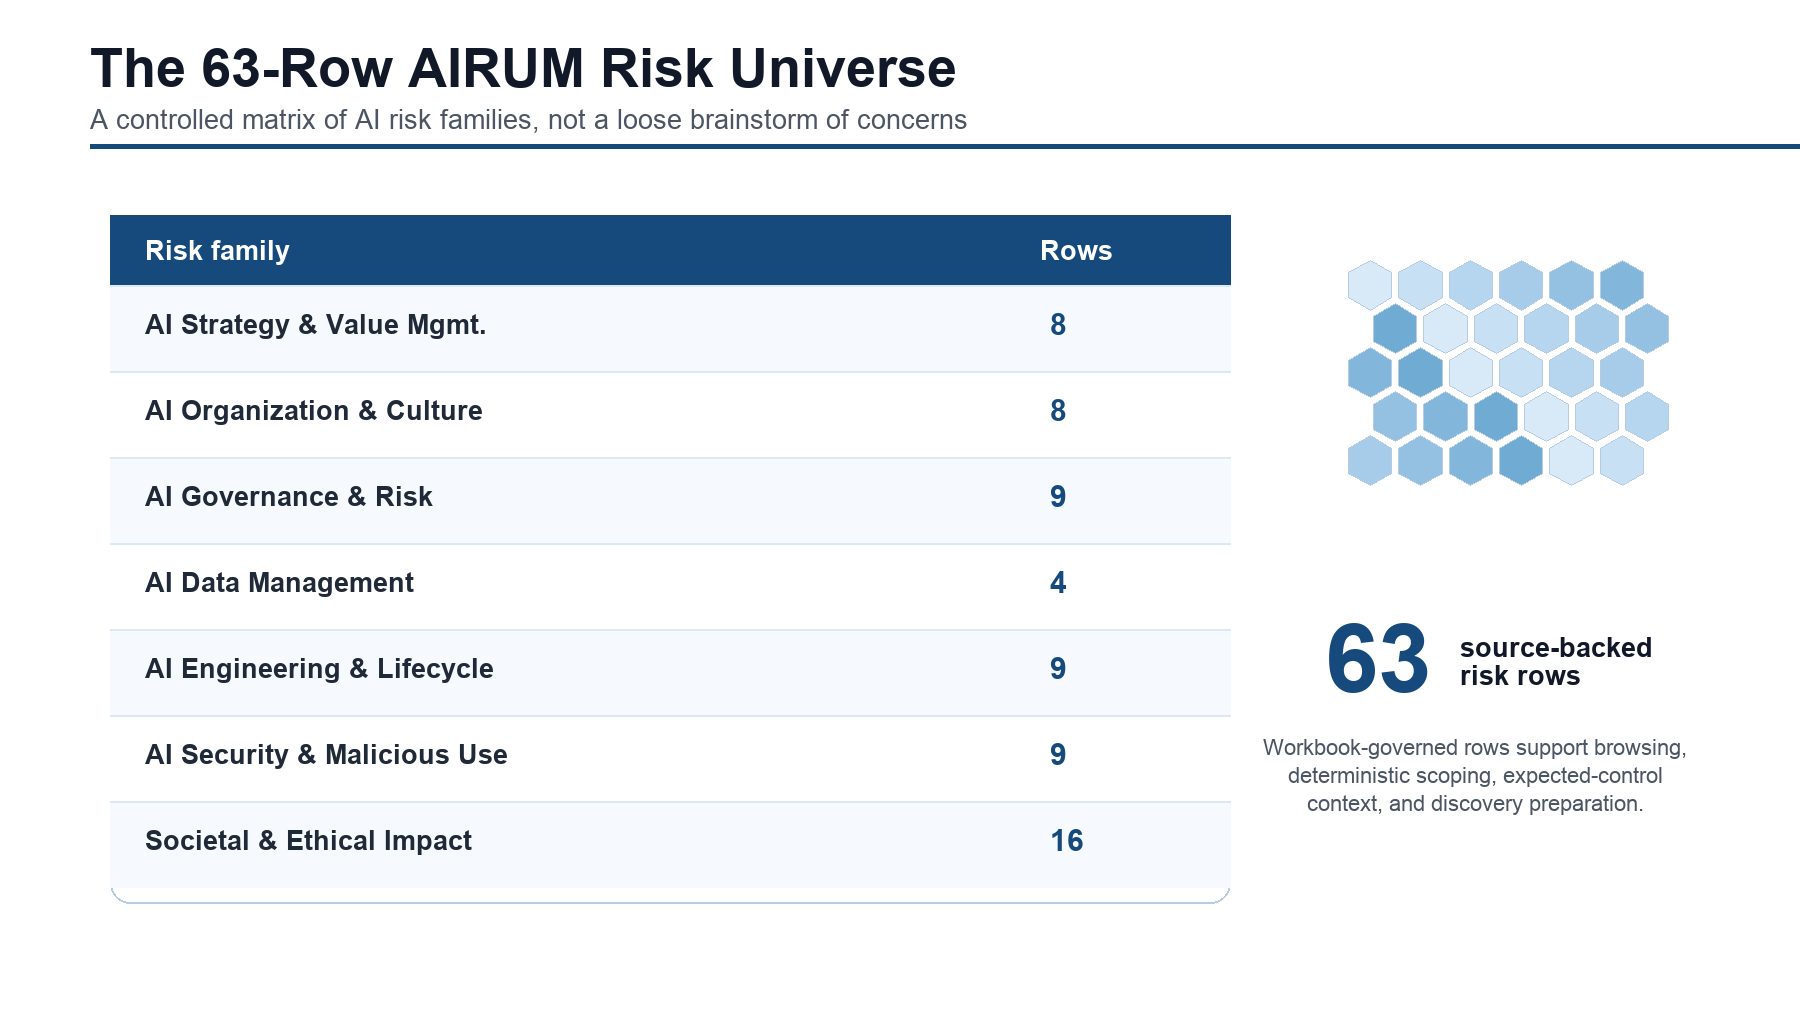
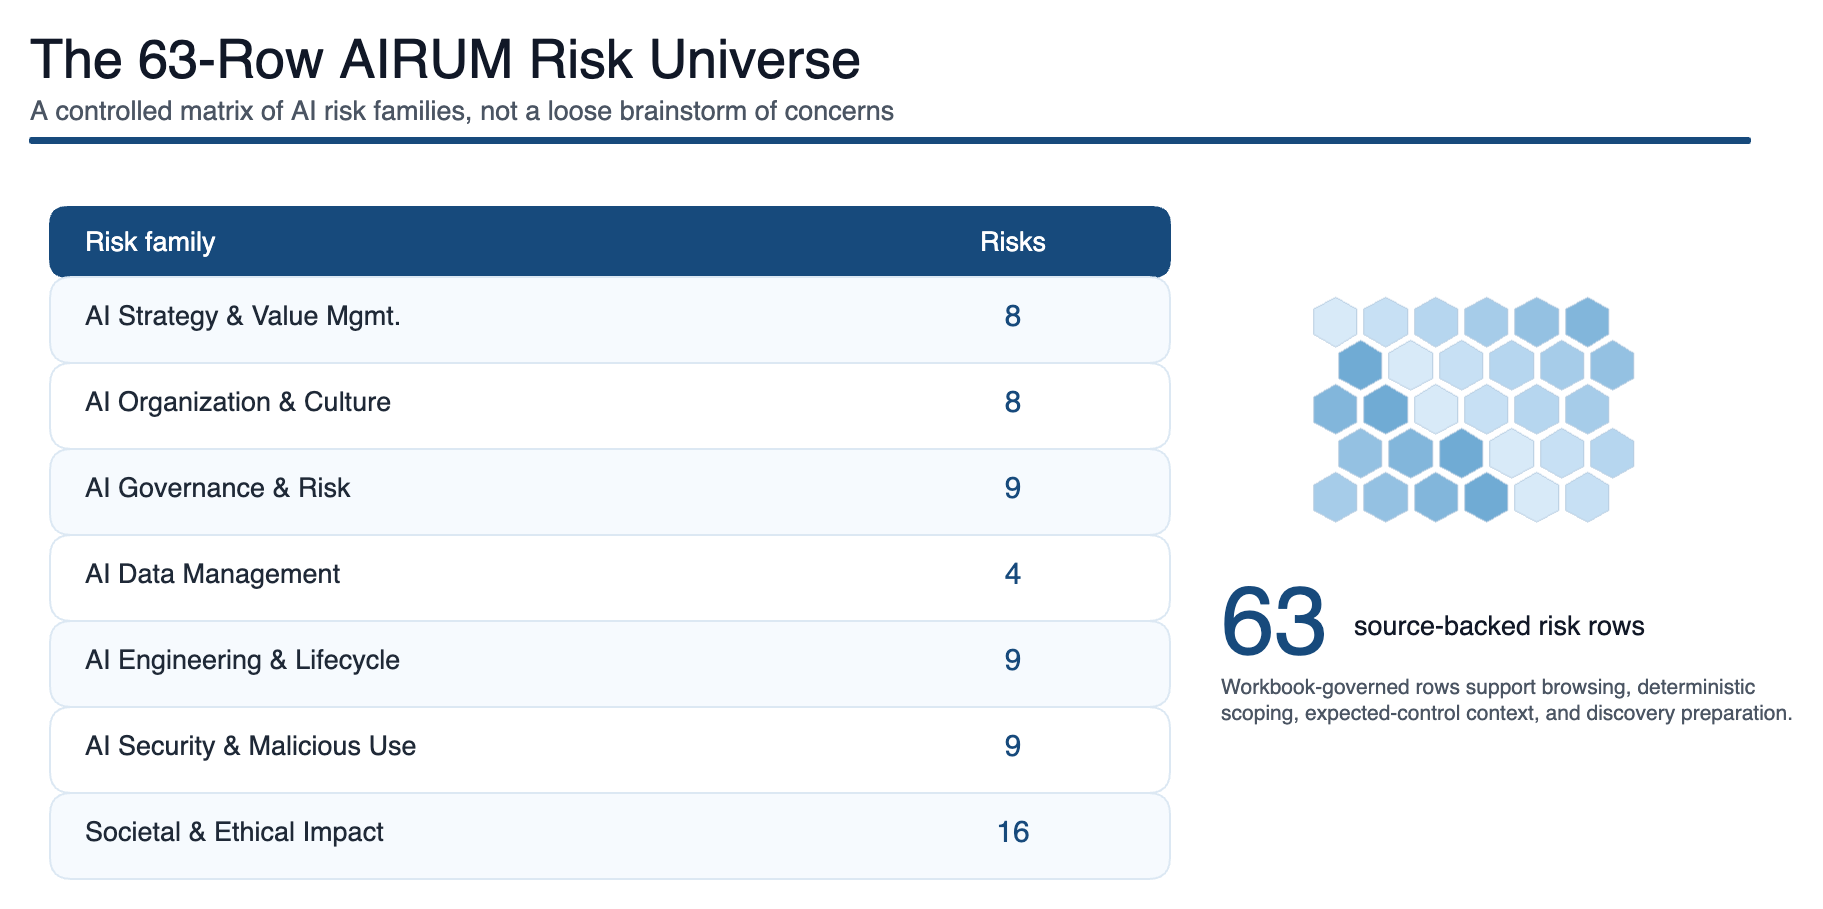
docs: refresh AIRUM visuals from article source

diff --git a/index.html b/index.html
@@ -73,8 +73,8 @@
     </section>
 
     <div class="figure">
-      <img src="assets/airum_deterministic_risk_scoping_workflow.png" alt="AIRUM deterministic risk scoping workflow">
-      <div class="caption">The deterministic workflow is deliberately framed as preparation: frame context, map to source-backed risks, group by audit use, and prepare discovery.</div>
+      <img src="assets/airum_63_row_risk_universe_summary.png" alt="AIRUM 63 AI Risk universe summary">
+      <div class="caption">The AIRUM risk universe keeps breadth visible before the audit team narrows the conversation into scoped discovery questions.</div>
     </div>
 
     <section class="card">

diff --git a/README.md b/README.md
@@ -36,7 +36,7 @@ A typical AIRUM preparation flow has four steps:
 3. **Group risks by audit use.** Separate baseline governance topics, direct process risks, specialist dependencies, lifecycle/future-stage considerations, and contextual watch items.
 4. **Challenge the output.** The auditor keeps, amends, escalates, defers, or removes risks based on discovery evidence and professional judgment.
 
-![AIRUM deterministic risk scoping workflow](assets/airum_deterministic_risk_scoping_workflow.png)
+![AIRUM 63 AI Risk universe summary](assets/airum_63_row_risk_universe_summary.png)
 
 ## Why deterministic scoping matters
 
